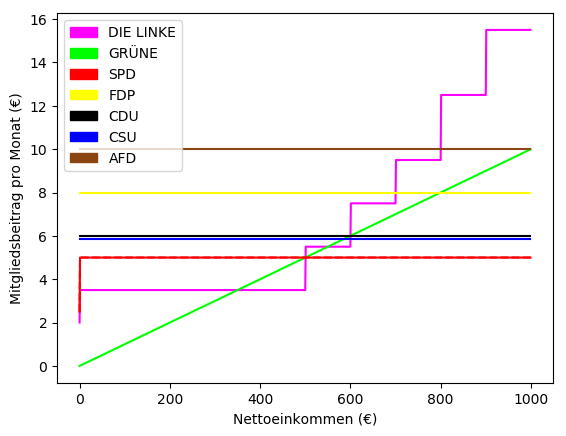
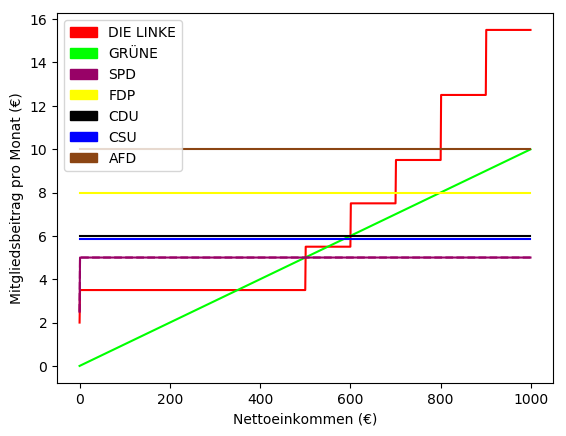
fixed colors

diff --git a/parteien_beitrags_verleich.py b/parteien_beitrags_verleich.py
@@ -157,10 +157,10 @@ def afd(einkommen):
 def make_graph():
     einkommen = [e for e in range(5500)]
     # einkommen = numpy.arange(0, 5000, 1)
-    party_list = [[die_linke, '#ff00ff', None, 'DIE LINKE'],
+    party_list = [[die_linke, '#ff0000', None, 'DIE LINKE'],
                   [gruene, '#00ff00', None, 'GRÜNE'],
-                  [spd, '#ff0000', None, 'SPD'],
-                  [spd_2, '#ff0000', 'dashed', None],
+                  [spd, '#980267', None, 'SPD'],
+                  [spd_2, '#980267', 'dashed', None],
                   [fdp, '#ffff00', None, 'FDP'],
                   [cdu, '#000000', None, 'CDU'],
                   [csu, '#0000ff', None, 'CSU'],
